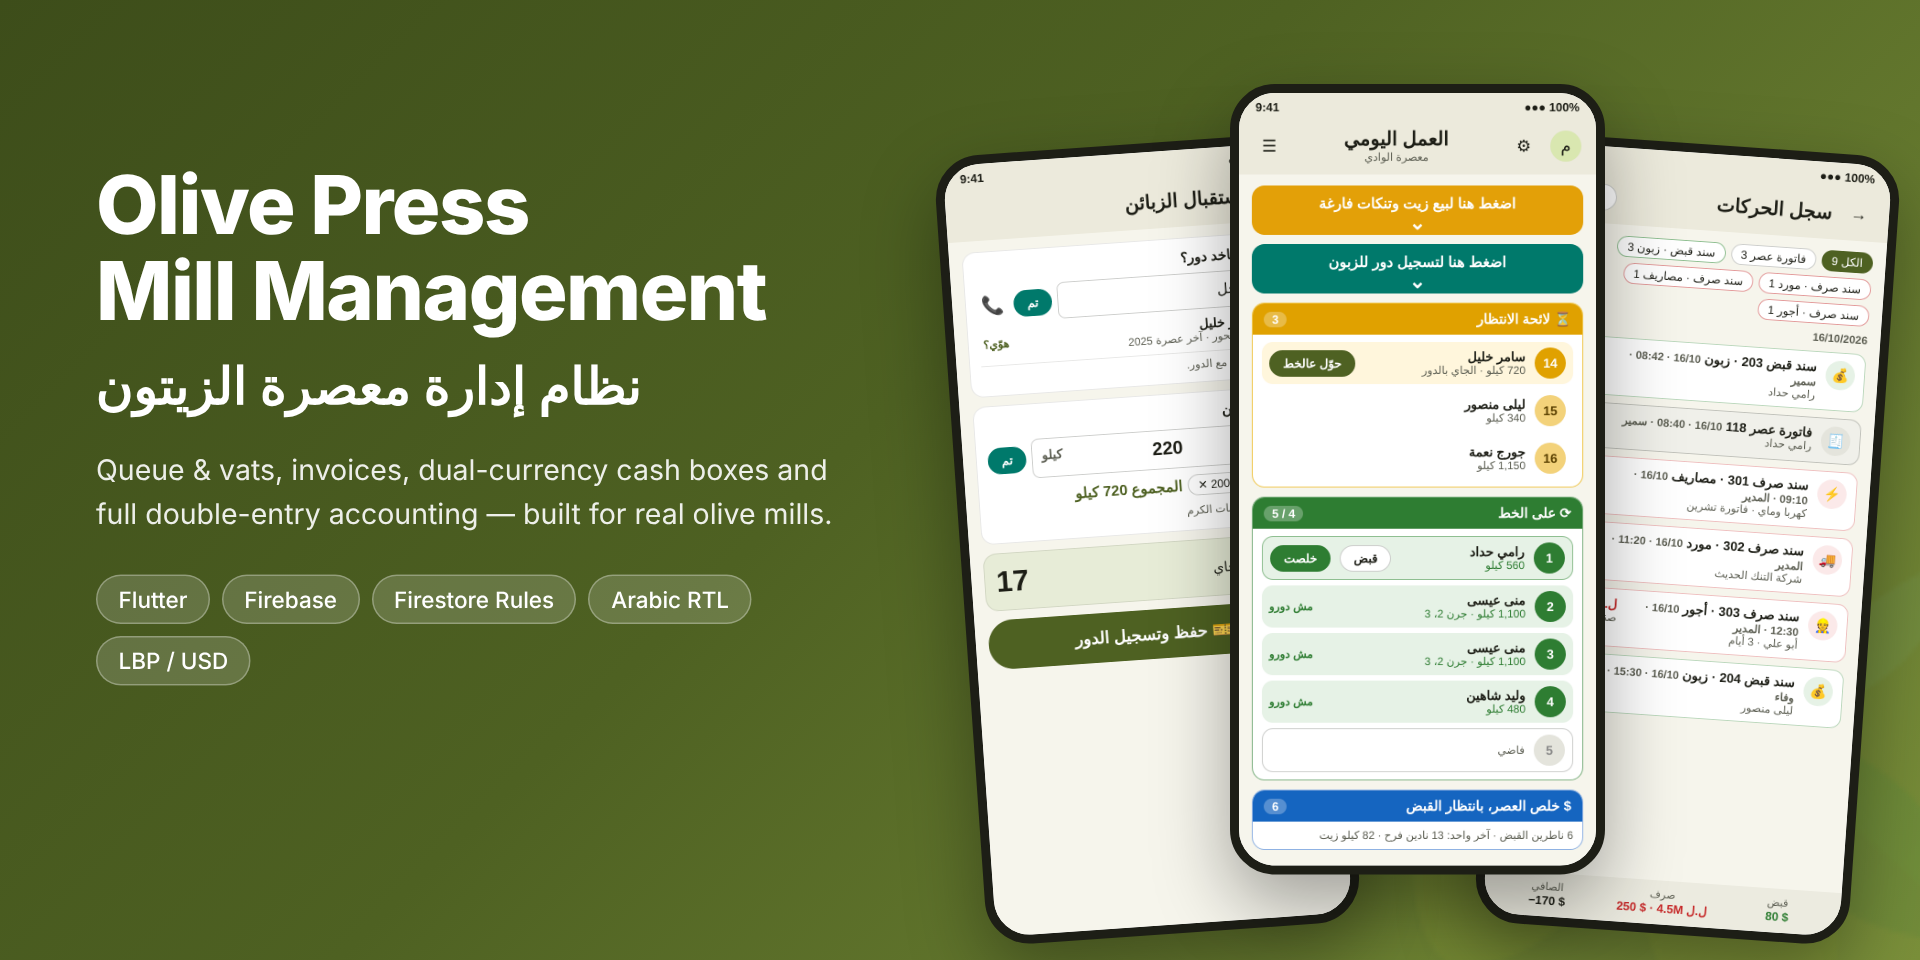
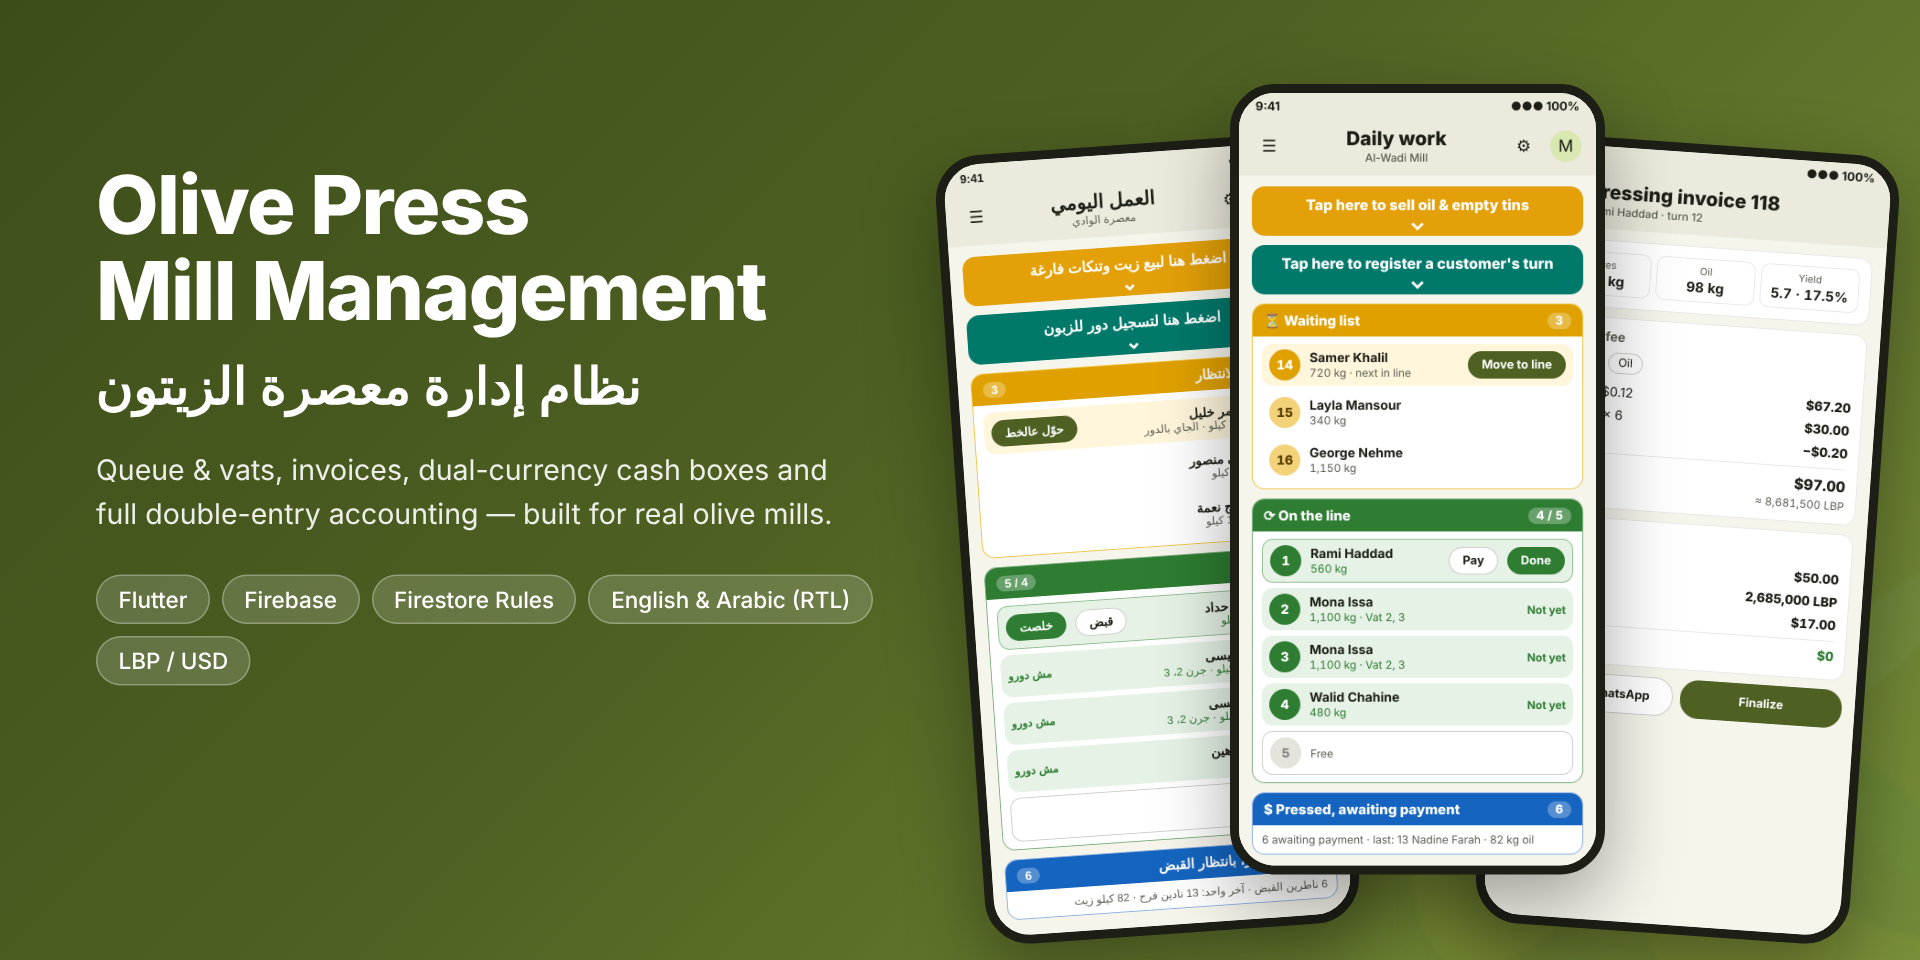
Add English screenshots

diff --git a/README.md b/README.md
@@ -8,7 +8,7 @@
 <p align="center">
   <img src="https://img.shields.io/badge/Flutter-Material%203-02569B?logo=flutter" alt="Flutter">
   <img src="https://img.shields.io/badge/Firebase-Auth%20%7C%20Firestore-FFCA28?logo=firebase&logoColor=black" alt="Firebase">
-  <img src="https://img.shields.io/badge/Language-Arabic%20RTL%20%2F%20English-4e6122" alt="Arabic / English">
+  <img src="https://img.shields.io/badge/Language-English%20%2F%20Arabic%20RTL-4e6122" alt="English / Arabic">
   <img src="https://img.shields.io/badge/Status-In%20production-2e7d32" alt="In production">
 </p>
 
@@ -22,12 +22,22 @@ It runs in a real olive mill during the 2026 season, used daily by the owner and
 
 ## Screens
 
-Screen previews with demo data (no real customer information).
+Screen previews with demo data (no real customer information). The app is fully bilingual: **English** and **Arabic (RTL)**.
+
+### English
 
 | Daily work | Turn registration | Pressing invoice |
 |:---:|:---:|:---:|
-| <img src="screenshots/daily-work.png" width="250"> | <img src="screenshots/reception.png" width="250"> | <img src="screenshots/invoice.png" width="250"> |
+| <img src="screenshots/en-daily-work.png" width="250"> | <img src="screenshots/en-reception.png" width="250"> | <img src="screenshots/en-invoice.png" width="250"> |
 | **Customer file** | **Movements log** | **Trial balance** |
+| <img src="screenshots/en-customer-file.png" width="250"> | <img src="screenshots/en-movements.png" width="250"> | <img src="screenshots/en-trial-balance.png" width="250"> |
+
+### Arabic (RTL)
+
+| العمل اليومي | تسجيل دور | فاتورة عصر |
+|:---:|:---:|:---:|
+| <img src="screenshots/daily-work.png" width="250"> | <img src="screenshots/reception.png" width="250"> | <img src="screenshots/invoice.png" width="250"> |
+| **ملف الزبون** | **سجل الحركات** | **ميزان المراجعة** |
 | <img src="screenshots/customer-file.png" width="250"> | <img src="screenshots/movements.png" width="250"> | <img src="screenshots/trial-balance.png" width="250"> |
 
 ---
@@ -82,7 +92,7 @@ Screen previews with demo data (no real customer information).
 ## Tech stack & architecture
 
 - **Flutter** (Material 3)
-  - Arabic RTL and English, using ARB localization.
+  - English and Arabic (RTL), using ARB localization.
   - Tablet- and web-friendly layouts.
 - **Firebase Authentication**: role-based users (platform admin, mill owner, manager, staff, customer).
 - **Cloud Firestore**: multi-tenant (`mills/{millId}/…`).
